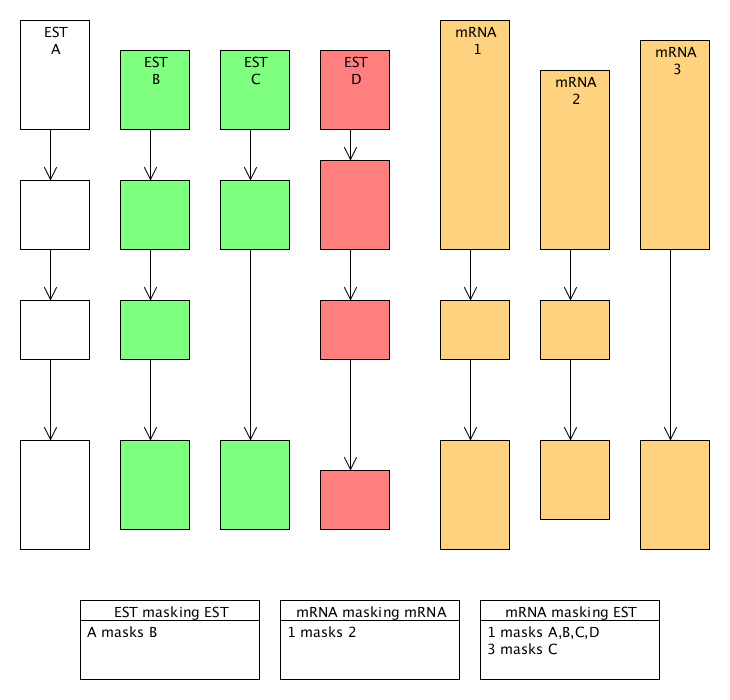
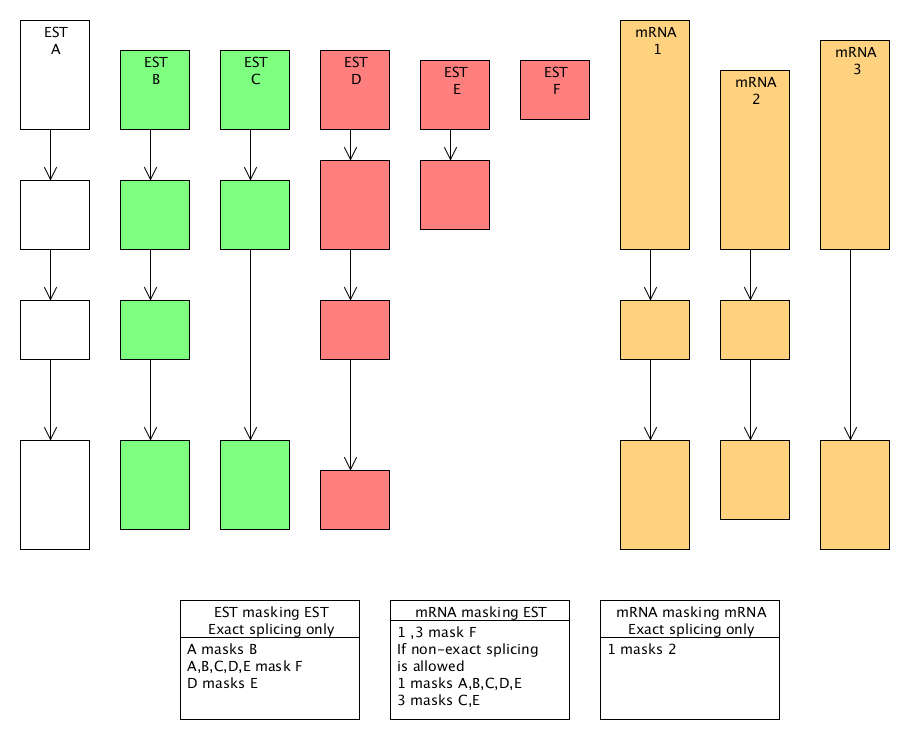
updated est masking diagram

diff --git a/docs/IntWeb/Design/notes/foo_perf.html b/docs/IntWeb/Design/notes/foo_perf.html
@@ -275,6 +275,8 @@ This gives us:
 </p>
 Set column state takes 18 seconds -half the time needed to add features to the foo canvas. This appear to be a result of <b>zmapWindowContainerFeatureSetAugment()</b> setting the column state to not visible which then requires the column to be made visible after adding the features.  Some high volume columns (eg GF_Splice) are hidden by default and perhaps ZMap could make a better guess of the intended state on column creation. It would also be possible to not display a column if it is not intended to display it (eg like 3-Frame).
 </p>
+<p> Removing the canvas item creation from the display code results in 270ms being needed to drive everything else for the Trembl column, and we could loose 40 seconds by handling all this in the ZMap code, if we chose to draw features from the context of a column container object.
+</p>
 
 <h3>Exposing a single column: all features or just a few</h3>
 <p>
@@ -358,12 +360,12 @@ for the initial display this allows a maximum time need to be determined as for 
 </p>
 
 
-<h3>Providing our own pixmaps for display</h3>
+<h3>Providing our own pixmaps for display/ displaying features as part of a column</h3>
 <p>If we construct our own image in a pixmap (or several) and display these via the foo canvas then there will be no noticable performance issues from the foo canvas (assuming that pixmaps will operate efficiently) as the number of display items will be small (eg less than 100).
 </p>
-<p>This would allow us to remove almost entirely the step of adding items to the foo canvas as all we need to do is to create a mapping from feature context to pixmap - this will be equivalent to the FToIhash operations already in place. The draw process would then consist of writing to the pixmap and triggering a GDK paint.  Note that htis implicitly treast the display as a representation of the data and the concept of searching the canvas is not relevant.
+<p>This would allow us to remove almost entirely the step of adding items to the foo canvas as all we need to do is to create a mapping from feature context to pixmap - this will be equivalent to the FToIhash operations already in place. The draw process would then consist of writing to the pixmap and triggering a GDK paint.  Note that this implicitly treats the display as a representation of the data and the concept of searching the canvas is not relevant.
 <p>
-This would give 24% from not operating the foo canvas except for minimal numbers of items, and 8% from not operating the update process. Gains in drawing should also be possible.
+This would give 24% from not operating the foo canvas except for minimal numbers of items, and 8% from not operating the update process. Gains in drawing should also be possible - a simple test using a glyph drawing function shows that displaying 10k items to a gdk_drawable takes 150ms for background and 120 ms for outline - if we have 600k items to display that would take 15 seconds approx, which is half the time spent currently.  Obviously with an off screen drawable (pixmap) there can be less interaction with X and items can be draw as a batch.  Note that if we adopt the policy of only displaying what needs to be displayed it is unlikely that we will have to display significantly more than 10 items and it should be possible to engineer a ZMap where all display operations take less than 1 second, even without resorting to off-screen pixmaps.
 </p>
 <p>It should also be possible to lose the need for long items code.
 </p>
@@ -371,11 +373,11 @@ This would give 24% from not operating the foo canvas except for minimal numbers
 </p>
 
 <h3>Getting the foo canvas to operate pixmaps</h3>
-<p>This (or Zmap supplied pixmaps) is essential to allow efficient scrolling. It is also essential to allow columns to be hidden or shown or moved without repainting half the screen - Either we have one foo canvsa per column or one pixmap per column.
+<p>This (or Zmap supplied pixmaps) is essential to allow efficient scrolling. It is also essential to allow columns to be hidden or shown or moved without repainting half the screen - Either we have one foo canvas per column or one pixmap per column.
 </p>
 
 <h3>Painting on demand</h3>
-<p>Using well known graphics techniques of displaying a current view and having adjacent view already prepared (eg like google maps) we can provide smooth scrolling using pixmaps without having to display all the data at high zoom.  It would be desirable/ necessary to implement a display thread to paint to a cache of pixmaps, but this would unlink control and view and provide a more comfortable user experience.  Note that we nove much of the drawing operations to idle CPU time as we can paint adjacent regions while the user is doing soemthing else, and the appearance will be of a much faster operation.
+<p>Using well known graphics techniques of displaying a current view and having adjacent view already prepared (eg like google maps) we can provide smooth scrolling using pixmaps without having to display all the data at high zoom.  It would be desirable/ necessary to implement a display thread to paint to a cache of pixmaps, but this would unlink control and view and provide a more comfortable user experience.  Note that we move much of the drawing operations to idle CPU time as we can paint adjacent regions while the user is doing soemthing else, and the appearance will be of a much faster operation.
 </p>
 <p>This strategy would allow us to paint only a subset of the data at high zoom and would therefore speed up zoom and revcomp considerably.
 </p>

diff --git a/docs/IntWeb/Design/notes/EST_mRNA.html b/docs/IntWeb/Design/notes/EST_mRNA.html
@@ -1,4 +1,4 @@
-<!-- $Id: EST_mRNA.html,v 1.2 2011-02-23 15:36:59 mh17 Exp $ -->
+<!-- $Id: EST_mRNA.html,v 1.3 2011-03-21 09:46:50 mh17 Exp $ -->
 <h2>RT 69060: Clustering (masking) EST's and mRNA's</h2>
 
 <fieldset><legend>Background</legend>
@@ -20,6 +20,43 @@ and recently (after the latest annotation test) we were requested to see how eas
 <p> This was once intended to be an interactive process w/ otterlace- see <a href="Design_notes/notes/otter_zmap.shtml">here</a>. However, reading the text and a quick chat w/ the requestor suggest that an interactive process was not wanted.
 </p>
 </fieldset>
+
+<a name="userguide"></a>
+<fieldset><legend>A brief User Guide</legend>
+<p><b>Note</b> this section written months after the rambling notes below</p>
+<h3>What do we mean by masking?</h3>
+<p>We mask alignments with other alignments with the intention of hiding those that are uninteresting ie give no new information.  Here an alignment is a series of matched features with the same name and an uninteresting one is exactly the same as another except perhaps a little shorter at one or both ends.
+We apply this process to EST's and mRNA's and this is defined by ZMap configuration as discussed in the sections below.
+</p>
+
+<h3>How does this affect the ZMap display?</h3>
+<p>By default a masked featureset (eg EST_Human) will have masked features hidden (not displayed) so there will be fewer features on the screen and bumping the column will show less data.  There is an option on the Right-Click Menu ('Show Masked Features') that will display the masked features, and these will be in grey, to indicate that we think they give no information not given by another feature.
+</p>
+<p>Masking is done at the featureset level and a feature is masked in all windows (eg if you v-split) but each window can be set to display the masked features or not, just like 'bump-column' only applies to one column &amp; window at a time.
+</p>
+
+<p>Masking is done whenever new data arrives, so if you request (eg) another EST column then you may find that displayed features either disappear or turn grey.
+</p>
+
+<h3>Highlighting a feature from 'list all this column features'</h3>
+<p>
+If a feature is masked and hidden you can still find it via the feature search windows and if you select a hidden masked feature then it will be displayed for you.  Note that this will not cause the other masked features in the column to display.
+</p>
+
+<h3>When specifically is a feature masked?</h3>
+<p>
+EST's are masked by themselves and other EST featuresets and mRNA's and mRNA's are masked by themsleves.  Perhaps the easiest way to illustrate this is with a diagram.
+</p>
+<p><b>NOTE</b> originally the request was to mask as in this diagram but since the first implementation it was decided to insist on exact splicing in all cases and in the diagram mRNA 3 would not mask EST C, and mRNA1 would not mask any EST.
+<img src="Design_notes/notes/est_mask.png" class="img">
+</p>
+
+<h3>Other notes</h3>
+<p>With masked features not displayed we expect to see fewer 'imcomplete homology' markers</p>
+<p>Some alignments can repeat over a DNA sequence and this can affect how the masking algorithm operates as it does not take into account repetition.  (Note that this is consistent with current ZMap practice in displaying co-linear lines between features).
+</p>
+</fieldset>
+
 
 <fieldset><legend>Things to define/ solve</legend>
 <h3>How to decide when to not display a feature?</h3>
@@ -100,13 +137,7 @@ There may be a combinatorial problem to solve.  A sample session from human chr-
 <h3>Masking a set with itself</h3>
 <p>The same procedure as above is followed but with the restriction that each exon must be matched (no gaps are allowed) and splice junctions must be the same. (which means that only the 5' and 3' coordinates may differ).
 </p>
-<h3>What gets's masked by what?</h3>
-<p>
-Perhaps the easiet way to illustrate this is with a diagram:
-<img src="Design_notes/notes/est_mask.png" class="img">
-</p>
-<p><b>NOTE</b> since the first implementation it was decided to insist on exact splicing and in the diagram mRNA 3 would not mask EST C.
-</p>
+
 
 <h3>Data Structures</h3>
 <p>The feature structure contains a union depending on the featuretype and for EST and mRNA we use style mode=align, which corresponds to a homol data structure.  The style data uses a similar structure but the structure is called an alignment. Extra flags will be added to these to handle masking status.

diff --git a/docs/IntWeb/Design/notes/canvas_tweaks.html b/docs/IntWeb/Design/notes/canvas_tweaks.html
@@ -1,4 +1,4 @@
-<!-- $Id: canvas_tweaks.html,v 1.2 2011-02-16 12:27:48 mh17 Exp $ -->
+<!-- $Id: canvas_tweaks.html,v 1.3 2011-03-21 09:46:50 mh17 Exp $ -->
 
 <h2>Speeding up the use of the Foo Canvas</h2>
 
@@ -113,8 +113,8 @@ BumpCol would have to be changed to display the hidden features rather than movi
 </p>
 <p>Functions such as 'List all Column Features' may have to be reviewed if they feed off the canvas data - perhaps some speed gains can be made by drawing features as hidden. (tests show about a 20-25% improvement by hiding all features.
 </p>
-<p> Displaying several featuresets in one column is more complicated especially when we consider that the summarise option is selected by a featureset's style.  It is possible so specify a style for a column abnd this perhaps provides some resolution despite allowing for mis-configuration.
-However the intention was to speed up the display of featuresets like TrEmbl and SwissProt which normally appear in a column of thier own   It may not be worth implementing a comples way of combining featuresets like this, better to specify what happens if this is configured.  As a short term measure we will choose to summarise each featureset in a column independantly.
+<p> Displaying several featuresets in one column is more complicated especially when we consider that the summarise option is selected by a featureset's style.  It is possible so specify a style for a column and this perhaps provides some resolution despite allowing for mis-configuration.
+However the intention was to speed up the display of featuresets like TrEmbl and SwissProt which normally appear in a column of thier own   It may not be worth implementing a complex way of combining featuresets like this, better to specify what happens if this is configured.  As a short term measure we will choose to summarise each featureset in a column independantly.
 </p>
 <h3>Implementation</h3>
 <h4>Module and scope</h4>
@@ -148,8 +148,8 @@ Given that the list of covered regions stays very short there seems little point
 <h3>Some caveats</h3>
 <p>This has so far been an experiment and there are some issues that need to be resolved:
 <ul>
-<li> some ZMap features such as list features in column may need to be adjusted to refernce the feature context rather than the canvas
-<li> zoom appears to operate without doing a re-draw and this code needs to be adjusted to add featrues to the canvas
+<li> some ZMap features such as list features in column may need to be adjusted to reference the feature context rather than the canvas. Tests reveal that 'List all Column Features' uses the FToI hash and thereby only finds features displayed on the canvas; perhaps this can be fixed by adding null entries to the hash when items are not displayed, and creating a fake canvas item OTF (or displaying the feature) if necessary (eg if the hash is used to look up a specific feature).
+<li> zoom appears to operate without doing a re-draw and this code needs to be adjusted to add features to the canvas. The function zmapWindowDraw.c/preZoomCB() looks like a good place to do this.
 <li> bump column must draw the missing features
 </ul>
 The later two imply some performance overhead, although not as great as drawing the whole column in the first place.
@@ -157,3 +157,8 @@ The later two imply some performance overhead, although not as great as drawing 
 
 </fieldset>
 
+<fieldset><legend>Removing canvas items altogether</legend>
+<h3>Where is the performance problem?</h3>
+<p>Even with 200k features it should be possible to display relatively quickly ansd perhaps there are delays introduced by interaction with the X server whcih has a complex protocol involving map realize update and expose events.  We have a tree of canvas groups to the column level which consists of no more than a few hundred groups total and this can certainly be processed very quickly.
+</p>
+</fieldset>
